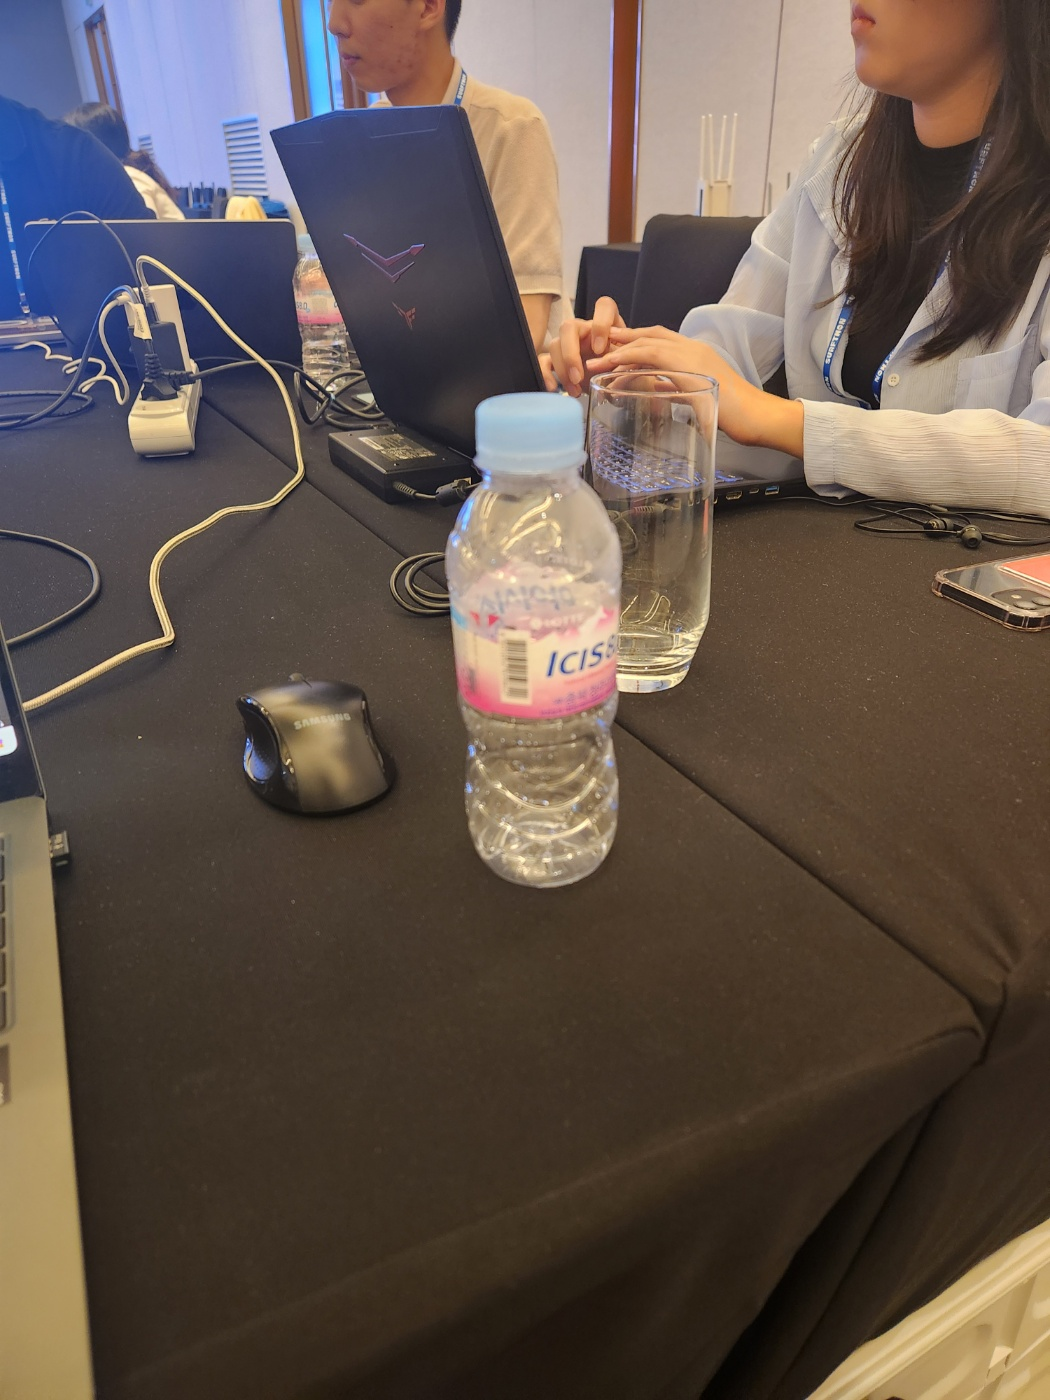
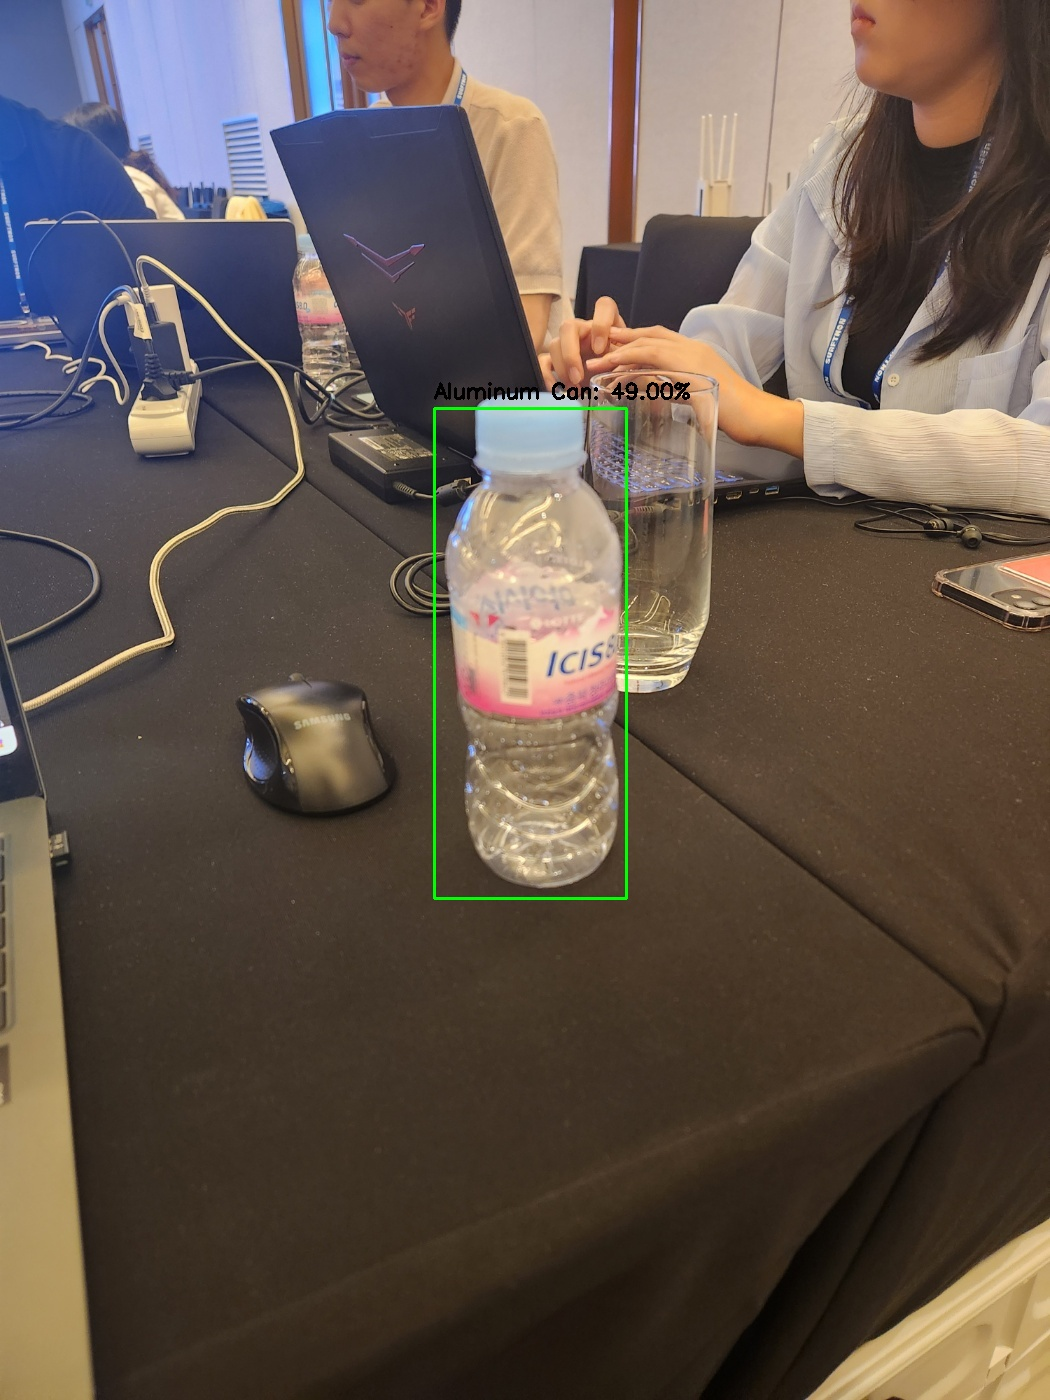
before merge

Changed region(s): [[0.3962, 0.2764, 0.6705, 0.645]]

diff --git a/imgProcess.py b/imgProcess.py
@@ -1,34 +1,71 @@
-def prc(img):
-    from inference_sdk import InferenceHTTPClient
-    
+import matplotlib.pyplot as plt
+import cv2
+from inference_sdk import InferenceHTTPClient
+
+def prc(img_path):
     CLIENT = InferenceHTTPClient(
         api_url="https://detect.roboflow.com",
         api_key="EJA9JwWYfAVqqZ3kLOhz"
     )
-    
-    result = CLIENT.infer(img, model_id="ultimate-rqkdd/1")
+
+    # 탐지된 이미지 저장
+    result = CLIENT.infer(img_path, model_id="garbage-detection-sht1u/4")
 
     textList = []
 
     if 'predictions' in result:
         for prediction in result['predictions']:
-            textList.append([prediction['class'], ((round(prediction['confidence'], 2))*100)])
+            textList.append([prediction['class'], round(prediction['confidence'], 2) * 100])
 
-    if textList == []:
+    if not textList:
         return "Fail, 0"
-    
+
     else:
         probability = 0
         text = ""
 
         for a in textList:
             text += a[0] + " "
-            probability += int(a[1])
-            del a[0]
-            del a[0]
+            probability += a[1]
 
-        return ("Success," + str(probability/len(textList)) +"," + text)
+        average_probability = probability / len(textList)
 
+        # 이미지 출력
+        img = cv2.imread(img_path)
+        
+        for prediction in result['predictions']:
+            # 바운딩 박스 좌표 수정
+            x_center = int(prediction['x'])  # 중심 x
+            y_center = int(prediction['y'])  # 중심 y
+            width = int(prediction['width'])  # 너비
+            height = int(prediction['height'])  # 높이
+            
+            # 좌측 상단과 우측 하단 좌표 계산
+            x1 = x_center - (width // 2)  # 좌측 상단 x
+            y1 = y_center - (height // 2)  # 좌측 상단 y
+            x2 = x_center + (width // 2)  # 우측 하단 x
+            y2 = y_center + (height // 2)  # 우측 하단 y
+            
+            print("bounding box 좌표:", x1, y1, x2, y2)
+
+            label = prediction['class']
+            confidence = round(prediction['confidence'], 2) * 100
+
+            # 이미지에 bounding box 그리기
+            cv2.rectangle(img, (int(x1), int(y1)), (int(x2), int(y2)), (0, 255, 0), 2)
+            cv2.putText(img, f"{label}: {confidence:.2f}%", (int(x1), int(y1) - 10), cv2.FONT_HERSHEY_SIMPLEX, 0.7, (0, 0, 0), 2)
+
+            # 이미지 저장
+            cv2.imwrite(img_path, img)
+
+        # # 이미지 출력
+        # plt.imshow(cv2.cvtColor(img, cv2.COLOR_BGR2RGB))
+        # plt.axis('off')
+        # plt.show()
+
+        return f"Success, {average_probability:.2f}, {text}"
+
+# 사용 예시
 if __name__ == "__main__":
     print("1")
     print(prc('aiTest/t.jpg'))
